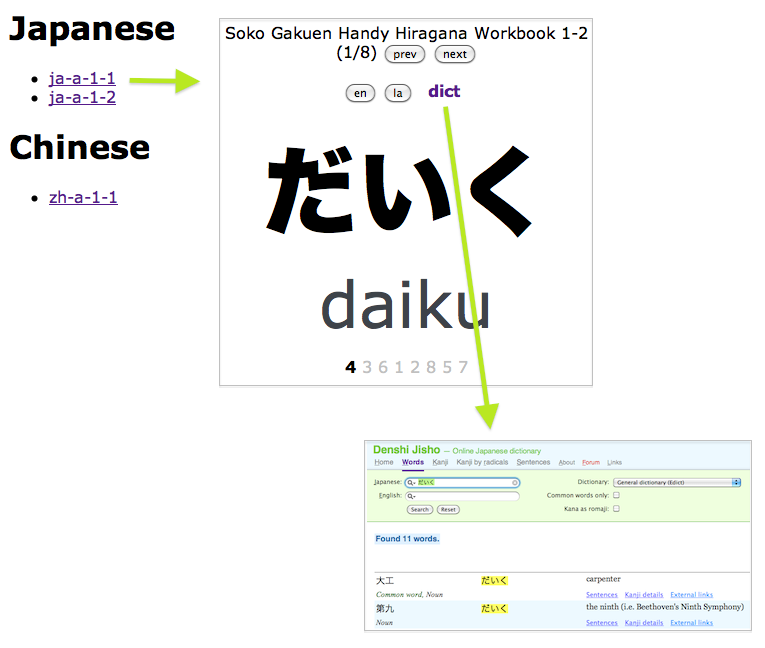
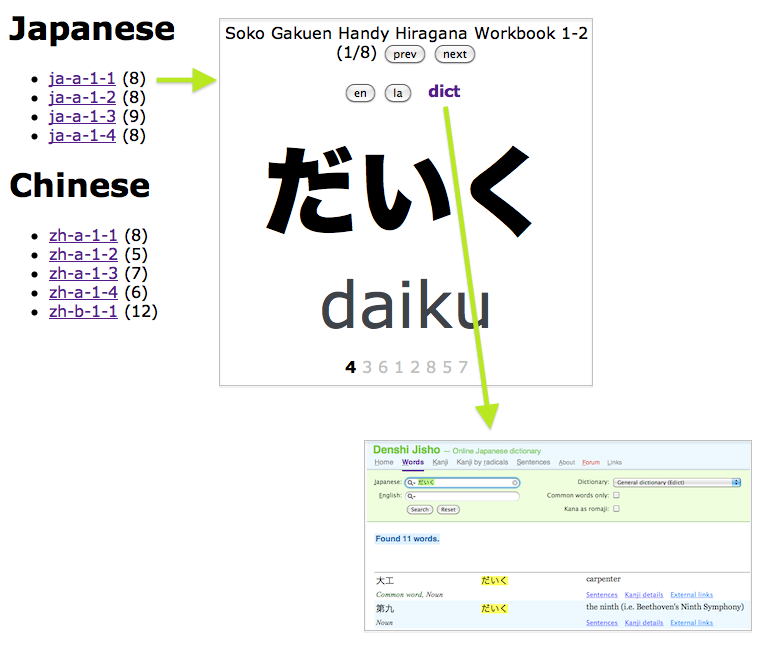
added more (zh) decks.

Changed region(s): [[0.0, 0.0926, 0.2706, 0.4938]]

diff --git a/static/style.css b/static/style.css
@@ -28,16 +28,16 @@ div#index {
   font-size:10em;
 }
 #la { 
-  font-size:4em;
+  font-size:2em;
   color:#3E4349;
 }
 #en {
-  font-size:3em;
+  font-size:2em;
   color:silver;
   font-style:italic;
 }
 .clue {
-  font-size:6em;
+  font-size:5em;
   font-weight:bold;
 }
 #order {
